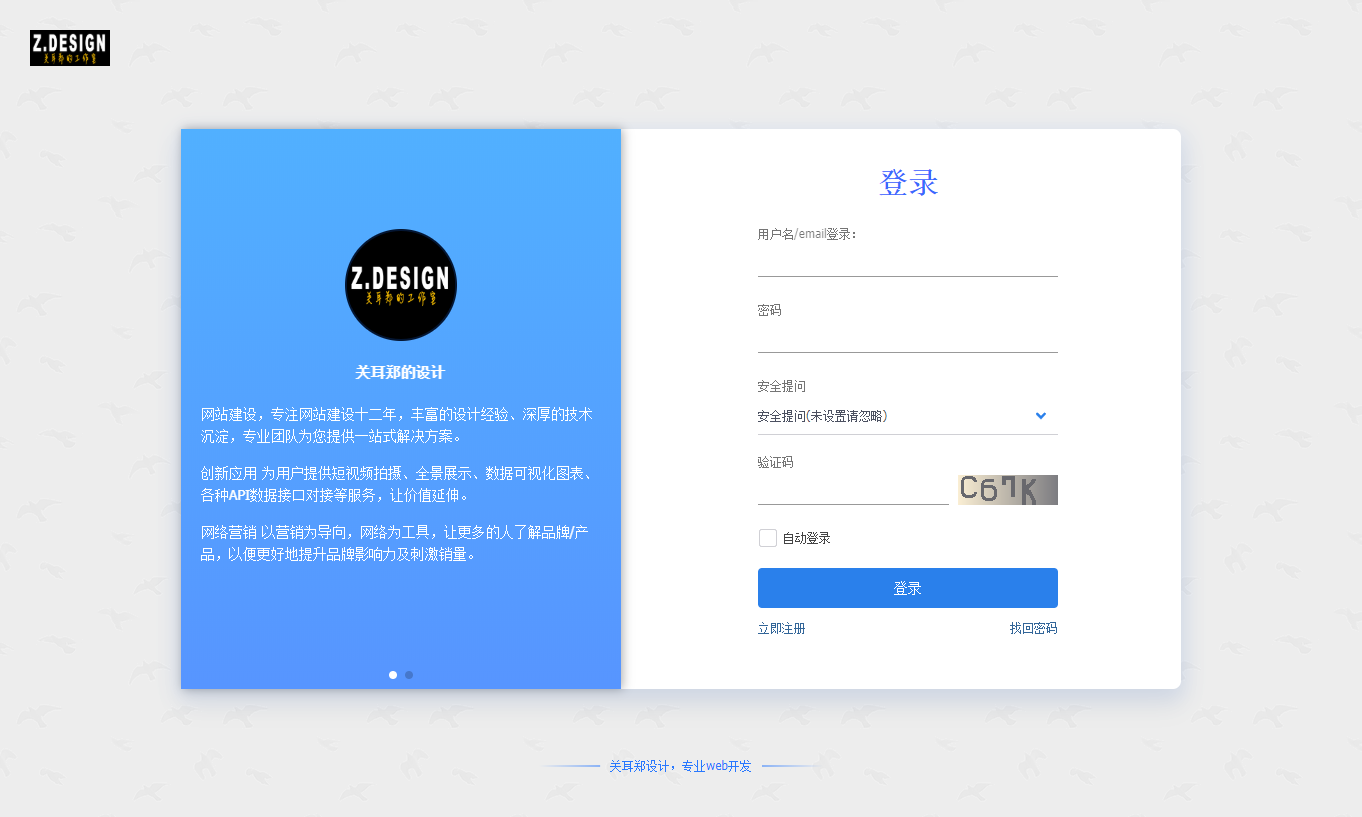
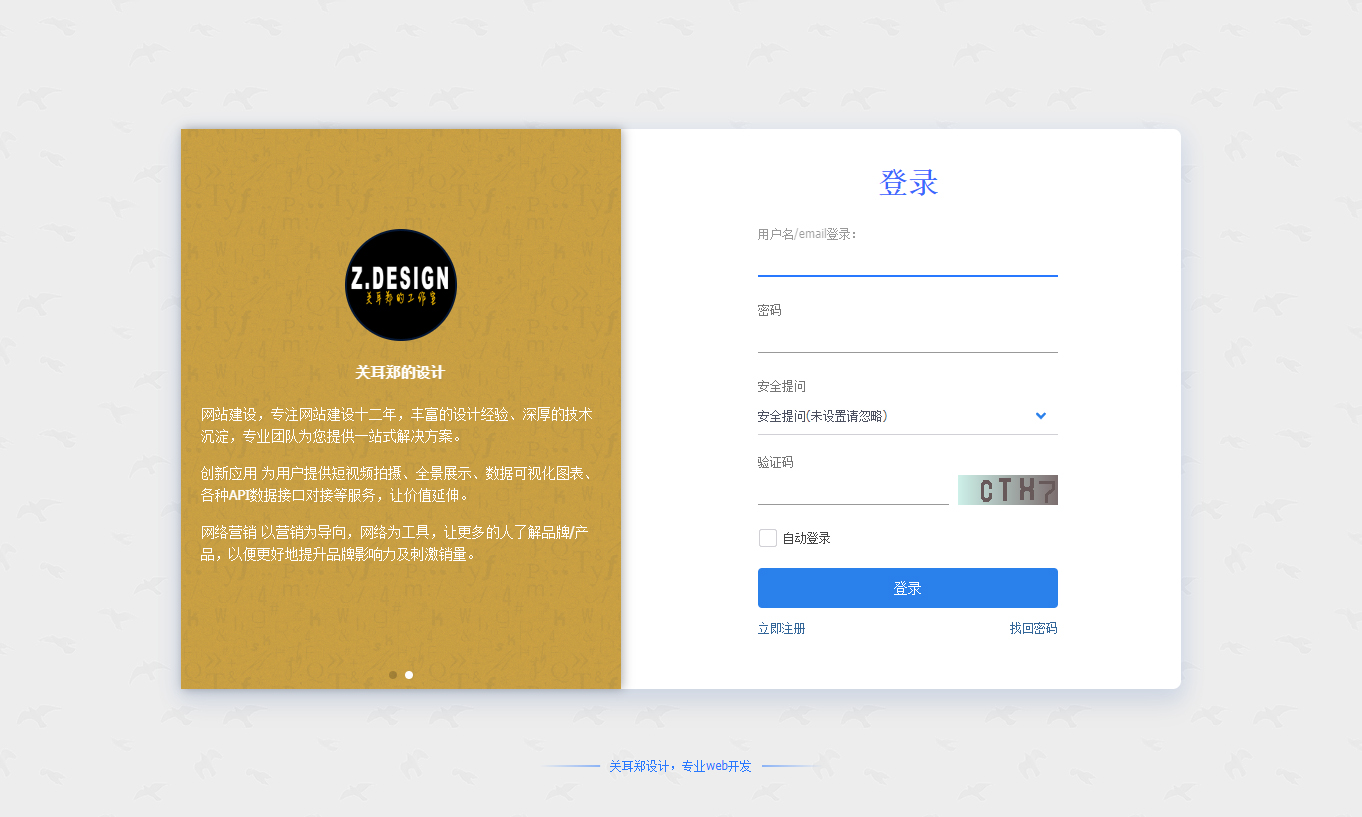
修改

diff --git a/member/login.htm b/member/login.htm
@@ -21,7 +21,7 @@
 <!--{/if}-->
 
 <div class="whole">
-	<a href="#"><img class="main_logo" src="template/zdesign_login/member/images/logo.jpg" alt=""></a>
+	<!-- <a href="#"><img class="main_logo" src="template/zdesign_login/member/images/logo.jpg" alt=""></a> -->
 	<a class="about_us" href="">关耳郑设计，专业web开发</a>
 
 	<div class="container">

diff --git a/member/register.htm b/member/register.htm
@@ -19,7 +19,6 @@
 
 <div class="whole">
 	<!--{hook/register_side_top}-->
-	<a href="#"><img class="main_logo" src="template/zdesign_login/member/images/logo.jpg" alt=""></a>
 	<a class="about_us" href="">关耳郑设计，专业web开发</a>
 	<div class="nfl" id="main_succeed" style="display: none">
 		<div class="f_c altw">
